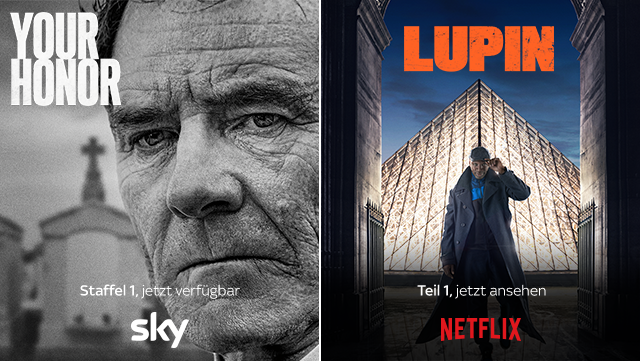
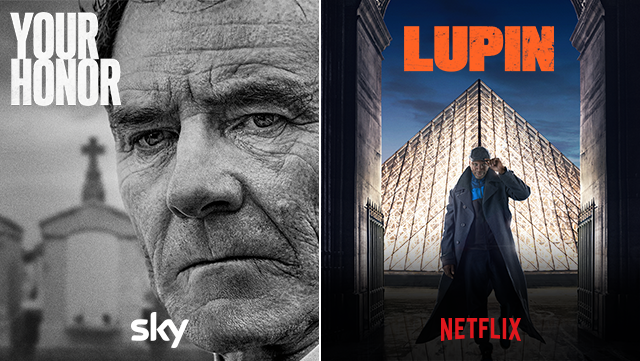
d

Changed region(s): [[0.125, 0.7922, 0.375, 0.8227], [0.6562, 0.7922, 0.8438, 0.8227]]

diff --git a/main/index.html b/main/index.html
@@ -4,65 +4,79 @@
     <meta charset="UTF-8" />
     <meta name="viewport" content="width=device-width, initial-scale=1.0" />
     <title>Document</title>
-    
-    
+
     <link rel="stylesheet" href="slick.css" />
     <link rel="stylesheet" href="style.css" />
-    <style>
-    </style>
+    <style></style>
   </head>
   <body>
     <div class="center">
-      <div class="top"></div>
+      <div class="top">
+        <div class="top__text1 top__text">Staffel 1, jetzt verfügbar</div>
+        <div class="top__text2 top__text">Teil 1, jetzt ansehen</div>
+      </div>
       <div class="bottom">
-          <img src="./logo.png" alt="logo" class="logo logoActive" id="logo">
-          <div class="text textActive" id="text">
-            Alle Serien von Sky und Netflix.
+        <img src="./logo.png" alt="logo" class="logo logoActive" id="logo" />
+        <div class="text textActive" id="text">
+          Alle Serien von Sky und Netflix.
+        </div>
+        <div class="price priceActive" id="price">
+          <img src="./micro.png" alt="micro" class="micro" />
+          <div class="micro__text">
+            Jetzt klicken <br />
+            und fragen.
           </div>
-          <div class="price priceActive" id="price">
-            <img src="./micro.png" alt="micro" class="micro">
-            <img src="./bable.png" alt="" class="bable">
+          <div class="bable">
+            <p class="bable__text">
+              „Hey Sky, zeig mir die <br />
+              aktuellen Serienhighlights.“
+            </p>
           </div>
-          <img src="./btn.png" alt="button" class="btn btnActive" id="btn">
+        </div>
+        <img src="./btn.png" alt="button" class="btn btnActive" id="btn" />
       </div>
     </div>
     <script src="jquery.js"></script>
     <script src="slick.js"></script>
     <script src="script.js"></script>
     <script>
-
-      var avgVStart = 0.01; 
+      var avgVStart = 0.01;
       var avgVEnd = 0.0;
       var isInterstitial = false;
-  
-      function animationPlay(){
-          btn.classList.add('btnActive');
-          text.classList.add('textActive');
-          logo.classList.add('logoActive');
-          price.classList.add('priceActive');
+
+      function animationPlay() {
+        btn.classList.add("btnActive");
+        text.classList.add("textActive");
+        logo.classList.add("logoActive");
+        price.classList.add("priceActive");
       }
-  
+
       if (!isInterstitial) {
-          window.addEventListener('message', function (event) {
-              var parseData = JSON.parse(event.data);
-  
-              if (parseData.rectangleTop > 0 && parseData.viewablePercent / 100 > avgVStart) {
-                  setTimeout(animationPlay, 200)
-              }
-  
-              if (parseData.rectangleTop < 0 && parseData.viewablePercent / 100 < avgVEnd) {
-  
-              }
-          });
+        window.addEventListener("message", function (event) {
+          var parseData = JSON.parse(event.data);
+
+          if (
+            parseData.rectangleTop > 0 &&
+            parseData.viewablePercent / 100 > avgVStart
+          ) {
+            setTimeout(animationPlay, 200);
+          }
+
+          if (
+            parseData.rectangleTop < 0 &&
+            parseData.viewablePercent / 100 < avgVEnd
+          ) {
+          }
+        });
       }
-  </script>
+    </script>
     <script>
       var isInterstitial = true;
       var avgVStart = 0.01;
       var avgVEnd = 0.0;
       var x_click = document.getElementsByTagName("body")[0];
       x_click.addEventListener("click", (e) => {
-          clickout_1();
+        clickout_1();
       });
       var clickTag1 = "";
       function clickout_1() {

diff --git a/main/style.css b/main/style.css
@@ -5,6 +5,12 @@
   font-weight: normal;
   font-style: normal;
 }
+/* @font-face {
+  font-family: "Sky";
+  src: url("./Sky_Reg.ttf") format("ttf");
+  font-weight: normal;
+  font-style: normal;
+} */
 *,
 *::before,
 *::after {
@@ -36,6 +42,20 @@ button {
   overflow: hidden;
   justify-content: space-between;
   overflow: hidden;
+  position: relative;
+}
+.top__text{
+  position: absolute;
+  color: #fff;
+  font-size: 2vw;
+}
+.top__text1{
+  bottom: 30px;
+  left: 55px;
+}
+.top__text2{
+  bottom: 30px;
+  right: 60px;
 }
 .bottom {
   width: 100vw;
@@ -56,7 +76,7 @@ button {
 }
 
 .text {
-  font-size: 5vw;
+  font-size: 6vw;
   opacity: 0;
   transform: scale(0);
   font-family: "Sky", sans-serif;
@@ -68,18 +88,34 @@ button {
   transition-delay: 0.1s;
   position: relative;
   display: flex;
-  justify-content: flex-end;
+  justify-content: space-between;
+  align-items: center;
+  flex-direction: column;
+  width: 100vw;
 }
 .micro{
-  z-index: 10;
-  position: absolute;
-  top: 0%;
-  left: 41%;
-  width: 18%;
   height: auto;
+  margin-bottom: 10px;
+  margin-right: 2px;
+}
+.micro__text{
+  text-align: center;
+  position: absolute;
+  right: 18%;
+  top: 15%;
+  font-size: 4vw;
+  font-family: sans-serif;
+  font-weight: lighter;
 }
 .bable{
-  width: 90%;
+  background: url(./bable.png) center no-repeat;
+  background-size: 100% 100%;
+  padding: 10px;
+  padding-top: 20px;
+  color:#000;
+}
+.bable__text{
+  text-align: center;
 }
 .btn {
   opacity: 0;

diff --git a/top/style.css b/top/style.css
@@ -32,12 +32,26 @@ button{
   outline: none;
 }
 .top {
-  background: url(bg.jpg) center;
+  background: url(bg.png) center;
   background-size: 100% 100%;
   display: flex;
   max-width: 100vw;
   height: 100vh;
+  position: relative;
   overflow: hidden;
   justify-content: space-between;
   overflow: hidden;
+}
+.top__text{
+  position: absolute;
+  color: #fff;
+  font-size: 1.5vw;
+}
+.top__text1{
+  bottom: 26px;
+  left: 8px;
+}
+.top__text2{
+  bottom: 26px;
+  right: 22px;
 }

diff --git a/top/index.html b/top/index.html
@@ -8,6 +8,8 @@
   </head>
   <body>
     <div class="top">
+      <div class="top__text1 top__text">Staffel 1, jetzt verfügbar</div>
+      <div class="top__text2 top__text">Teil 1, jetzt ansehen</div>
     </div>
     <script>
         
